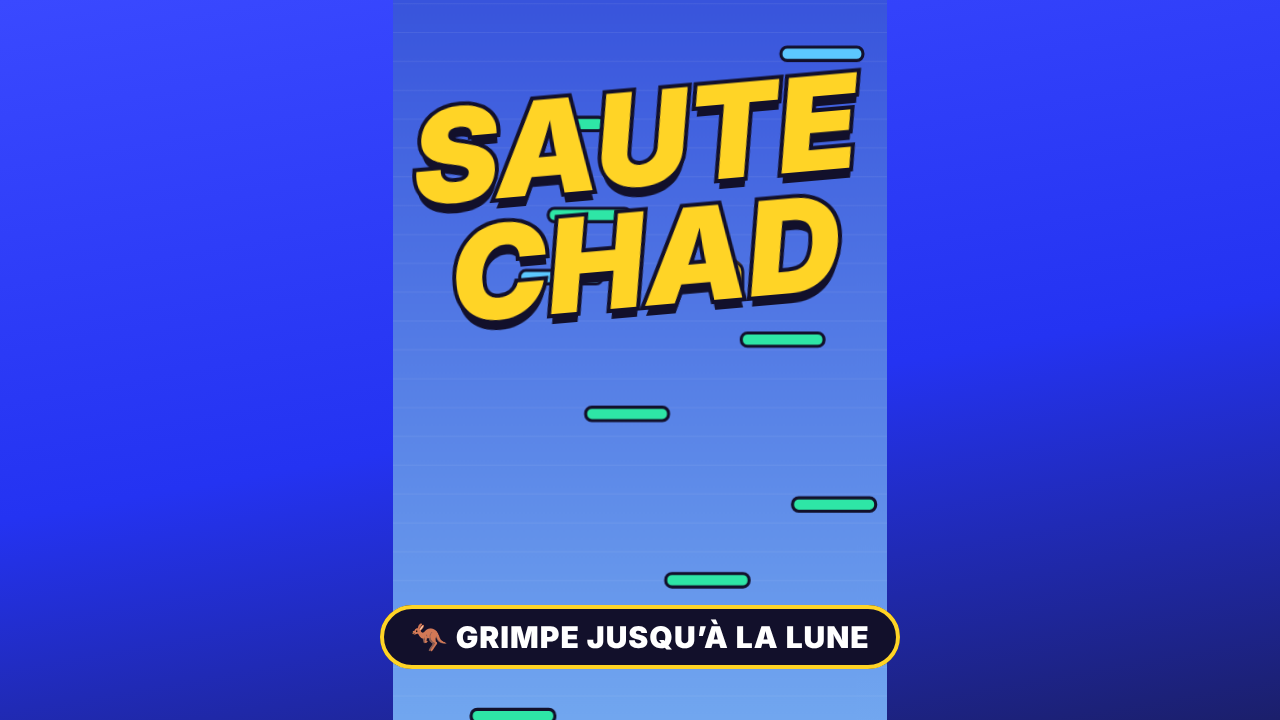
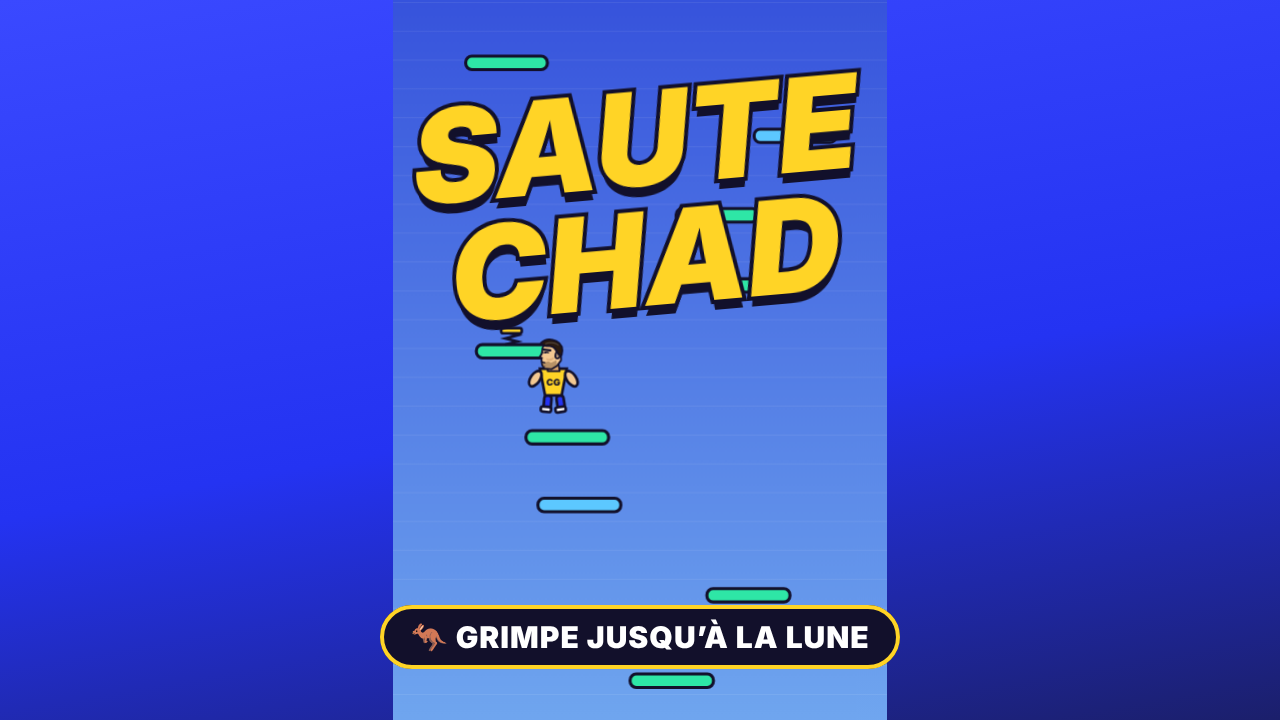
A

diff --git a/index.html b/index.html
@@ -150,6 +150,37 @@ const CG=(()=>{
   function init(o){Object.assign(cfg,o);best=+ls(cfg.key+'_best')||0;try{muted=ls(cfg.key+'_mute')==='1'}catch{}showMute();$('mBest').textContent=cfg.fmt(best);loadHub()}
   return{init,start,over,setScore,target,popup,flash,confetti,sfx,get state(){return state},get best(){return best},hubRecord,ac};
 })();
+/* Tête de Chad (profil 3/4 tourné vers la droite), dessinée en vectoriel. r = demi-hauteur de la tête. */
+function chadHead(ctx,r,o){o=o||{};const k=r/20;ctx.save();ctx.scale(k,k);ctx.lineJoin='round';ctx.lineCap='round';
+  const ink='#12102b',skin=o.skin||'#f3c892',shade=o.shade||'#d9a46b',hair='#2a1a10',beard='rgba(90,58,32,.38)';
+  ctx.lineWidth=2.6;ctx.strokeStyle=ink;
+  // cou
+  ctx.fillStyle=shade;ctx.beginPath();ctx.moveTo(-9,10);ctx.lineTo(-11,22);ctx.lineTo(7,22);ctx.lineTo(6,12);ctx.closePath();ctx.fill();ctx.stroke();
+  // visage + mâchoire carrée
+  ctx.fillStyle=skin;ctx.beginPath();
+  ctx.moveTo(-13,-6);ctx.quadraticCurveTo(-13,-17,-2,-19);ctx.lineTo(9,-18);ctx.quadraticCurveTo(15,-16,15,-9);
+  ctx.lineTo(16,-3);ctx.lineTo(19,1);ctx.lineTo(16,3);ctx.lineTo(16,8);ctx.lineTo(15,13);ctx.lineTo(12,18);ctx.lineTo(1,19);ctx.lineTo(-7,14);ctx.lineTo(-13,6);ctx.closePath();ctx.fill();ctx.stroke();
+  // barbe de 3 jours
+  ctx.fillStyle=beard;ctx.beginPath();ctx.moveTo(-6,6);ctx.lineTo(-7,13.5);ctx.lineTo(1,18.5);ctx.lineTo(12,17.5);ctx.lineTo(15,12.5);ctx.lineTo(15.6,7.5);ctx.lineTo(10,9);ctx.lineTo(6,7.5);ctx.lineTo(2,9.5);ctx.closePath();ctx.fill();
+  // ombre de pommette
+  ctx.fillStyle='rgba(160,100,50,.25)';ctx.beginPath();ctx.moveTo(-2,1);ctx.quadraticCurveTo(4,6,9,3);ctx.lineTo(8,6);ctx.quadraticCurveTo(2,8,-2,4);ctx.fill();
+  // oreille
+  ctx.fillStyle=skin;ctx.beginPath();ctx.ellipse(-8,-2,3.4,5,-.2,0,7);ctx.fill();ctx.stroke();ctx.strokeStyle='rgba(18,16,43,.5)';ctx.lineWidth=1.4;ctx.beginPath();ctx.arc(-8,-2,1.8,-1,1.6);ctx.stroke();ctx.strokeStyle=ink;ctx.lineWidth=2.6;
+  // cheveux plaqués en arrière
+  ctx.fillStyle=hair;ctx.beginPath();ctx.moveTo(-14,-2);ctx.quadraticCurveTo(-18,-17,-6,-23);ctx.quadraticCurveTo(8,-29,17,-20);ctx.quadraticCurveTo(14,-15,7,-15.5);ctx.quadraticCurveTo(-1,-15,-4,-11);ctx.quadraticCurveTo(-7,-7,-9,-3);ctx.quadraticCurveTo(-11,-1,-14,-2);ctx.closePath();ctx.fill();ctx.stroke();
+  ctx.strokeStyle='rgba(255,255,255,.25)';ctx.lineWidth=1.3;ctx.beginPath();ctx.moveTo(-9,-17);ctx.quadraticCurveTo(0,-23,10,-19);ctx.stroke();ctx.strokeStyle=ink;
+  // sourcil épais + œil plissé
+  ctx.lineWidth=3.2;ctx.beginPath();ctx.moveTo(3,-9);ctx.lineTo(13,-10);ctx.stroke();
+  if(o.shades){ctx.fillStyle=ink;ctx.beginPath();ctx.moveTo(2,-7);ctx.lineTo(16,-8);ctx.lineTo(15,-3);ctx.lineTo(4,-2.5);ctx.closePath();ctx.fill();ctx.fillStyle='rgba(255,255,255,.55)';ctx.fillRect(9,-6.5,4,1.4)}
+  else{ctx.lineWidth=2.2;ctx.beginPath();ctx.moveTo(6,-5.5);ctx.quadraticCurveTo(9,-6.8,12,-5.5);ctx.stroke();ctx.fillStyle=ink;ctx.beginPath();ctx.arc(10,-5.4,1.2,0,7);ctx.fill()}
+  // nez droit
+  ctx.lineWidth=2;ctx.beginPath();ctx.moveTo(14.5,-6);ctx.lineTo(18.6,1);ctx.lineTo(15,2.2);ctx.stroke();
+  // sourire en coin
+  ctx.beginPath();ctx.moveTo(11,9.4);ctx.quadraticCurveTo(13.5,9.6,15.2,8.2);ctx.stroke();
+  // menton creusé
+  ctx.strokeStyle='rgba(18,16,43,.45)';ctx.lineWidth=1.3;ctx.beginPath();ctx.moveTo(11,14.5);ctx.lineTo(11.5,17.5);ctx.stroke();
+  ctx.restore()}
+
 /* ===== Saute-Chad ===== */
 const cv=$('cv'),ctx=cv.getContext('2d');
 let W=400,H=700,sc=1,dpr=1;
@@ -190,7 +221,7 @@ function step(){t++;
   // caméra
   const line=H*.42;if(P.y-camY<line)camY=P.y-line;
   const h=Math.max(0,Math.floor((620-P.y)/10));if(h>maxH){maxH=h;if(h!==score){score=h;CG.setScore(score);CG.target(score)}}
-  if(score-lastMile>=500){lastMile=score-score%500;CG.popup(lastMile+' m 🚀');CG.sfx.big()}
+  if(score-lastMile>=100){lastMile=score-score%100;CG.popup(lastMile+' m 🚀');CG.sfx.big()}
   // nouvelles plateformes
   let top=Math.min(...plats.map(p=>p.y));while(top>camY-120){top-=58+Math.random()*(26+Math.min(40,score/80));addPlat(top)}
   plats=plats.filter(p=>p.y<camY+H+60);
@@ -211,19 +242,26 @@ function draw(){
     rr(p.x,p.y,p.w,13,6);ctx.fill();ctx.stroke();if(p.k==='b'){ctx.strokeStyle='#7a5530';ctx.beginPath();ctx.moveTo(p.x+p.w*.3,p.y+2);ctx.lineTo(p.x+p.w*.4,p.y+11);ctx.moveTo(p.x+p.w*.65,p.y+2);ctx.lineTo(p.x+p.w*.58,p.y+11);ctx.stroke()}
     if(p.spring!=null){const sx=p.x+p.spring,sh=p.sprung?22:12;ctx.strokeStyle='#12102b';ctx.fillStyle='#ffd426';ctx.lineWidth=2.5;ctx.beginPath();for(let i=0;i<=4;i++)ctx.lineTo(sx+(i%2?14:2),p.y-i*sh/4);ctx.stroke();rr(sx-2,p.y-sh-4,20,5,2);ctx.fill();ctx.stroke()}}
   // Chad
-  ctx.save();ctx.translate(P.x,P.y);const sq=Math.max(0,P.squash);ctx.scale(P.face*(1+sq*.18),1-sq*.2);
-  ctx.strokeStyle='#12102b';ctx.lineWidth=3;ctx.fillStyle='#ffd426';rr(-14,-40,28,34,10);ctx.fill();ctx.stroke();
-  ctx.fillStyle='#6b4a2b';rr(-10,-18,22,10,4);ctx.fill();
-  ctx.fillStyle='#12102b';rr(-6,-32,18,7,2);ctx.fill();ctx.fillStyle='#ffffffaa';ctx.fillRect(2,-30,5,2);
-  ctx.fillStyle='#3b2a1a';ctx.beginPath();ctx.moveTo(-14,-36);ctx.quadraticCurveTo(0,-52,14,-38);ctx.quadraticCurveTo(0,-42,-14,-36);ctx.fill();
-  ctx.fillStyle='#ffd426';rr(-11,-7,8,9,3);ctx.fill();ctx.stroke();rr(3,-7,8,9,3);ctx.fill();ctx.stroke();
+  ctx.save();ctx.translate(P.x,P.y);const sq=Math.max(0,P.squash),rising=P.vy<0;ctx.scale(P.face*(1+sq*.16),1-sq*.18);
+  ctx.strokeStyle='#12102b';ctx.lineWidth=2.6;ctx.lineCap='round';
+  // jambes (repliées en montée, tendues en descente)
+  const leg=rising?-.5:.15;ctx.fillStyle='#2433f2';
+  for(const sx of [-6,5]){ctx.save();ctx.translate(sx,-14);ctx.rotate(sx<0?leg:-leg*.6);rr(-3.5,0,7,13,3);ctx.fill();ctx.stroke();ctx.fillStyle='#fff';rr(-4,11,10,5,2);ctx.fill();ctx.stroke();ctx.fillStyle='#2433f2';ctx.restore()}
+  // torse en V (débardeur)
+  ctx.fillStyle='#ffd426';ctx.beginPath();ctx.moveTo(-13,-40);ctx.lineTo(13,-40);ctx.lineTo(8,-14);ctx.lineTo(-8,-14);ctx.closePath();ctx.fill();ctx.stroke();
+  ctx.save();ctx.scale(P.face,1);ctx.fillStyle='#12102b';ctx.font='900 9px system-ui';ctx.textAlign='center';ctx.fillText('CG',0,-24);ctx.restore();
+  // bras musclés (en l'air quand il monte)
+  ctx.fillStyle='#f3c892';const arm=rising?-2.2:-.6;
+  for(const sx of [-13,13]){ctx.save();ctx.translate(sx,-37);ctx.rotate(sx<0?-arm:arm);ctx.beginPath();ctx.ellipse(0,8,4.6,8.5,0,0,7);ctx.fill();ctx.stroke();ctx.restore()}
+  // tête
+  ctx.translate(1,-52);chadHead(ctx,13,{shades:score>=300});
   ctx.restore();
   for(const q of parts){ctx.globalAlpha=q.l/18;ctx.fillStyle=q.c;ctx.fillRect(q.x,q.y,3,3)}ctx.globalAlpha=1;
   ctx.restore();
 }
 let last=performance.now(),acc=0;function frame(now){acc+=Math.min(100,now-last);last=now;while(acc>=1000/60){step();acc-=1000/60}draw();requestAnimationFrame(frame)}
 document.addEventListener('visibilitychange',()=>{last=performance.now();acc=0});
-CG.init({key:'sautechad',unit:'m',medals:[[500,'🥉','Premier étage'],[1500,'🥈','Au-dessus des nuages'],[3000,'🥇','Dans l\'espace'],[6000,'💎','Sur la Lune']],lowMsg:'Retour au sol…',onStart:()=>{reset()}});
+CG.init({key:'sautechad',unit:'m',medals:[[100,'🥉','Premier étage'],[300,'🥈','Au-dessus des nuages'],[600,'🥇','Dans l\'espace'],[1200,'💎','Sur la Lune']],lowMsg:'Retour au sol…',onStart:()=>{reset()}});
 reset();CG.setScore(0);requestAnimationFrame(frame);
 
 </script>
